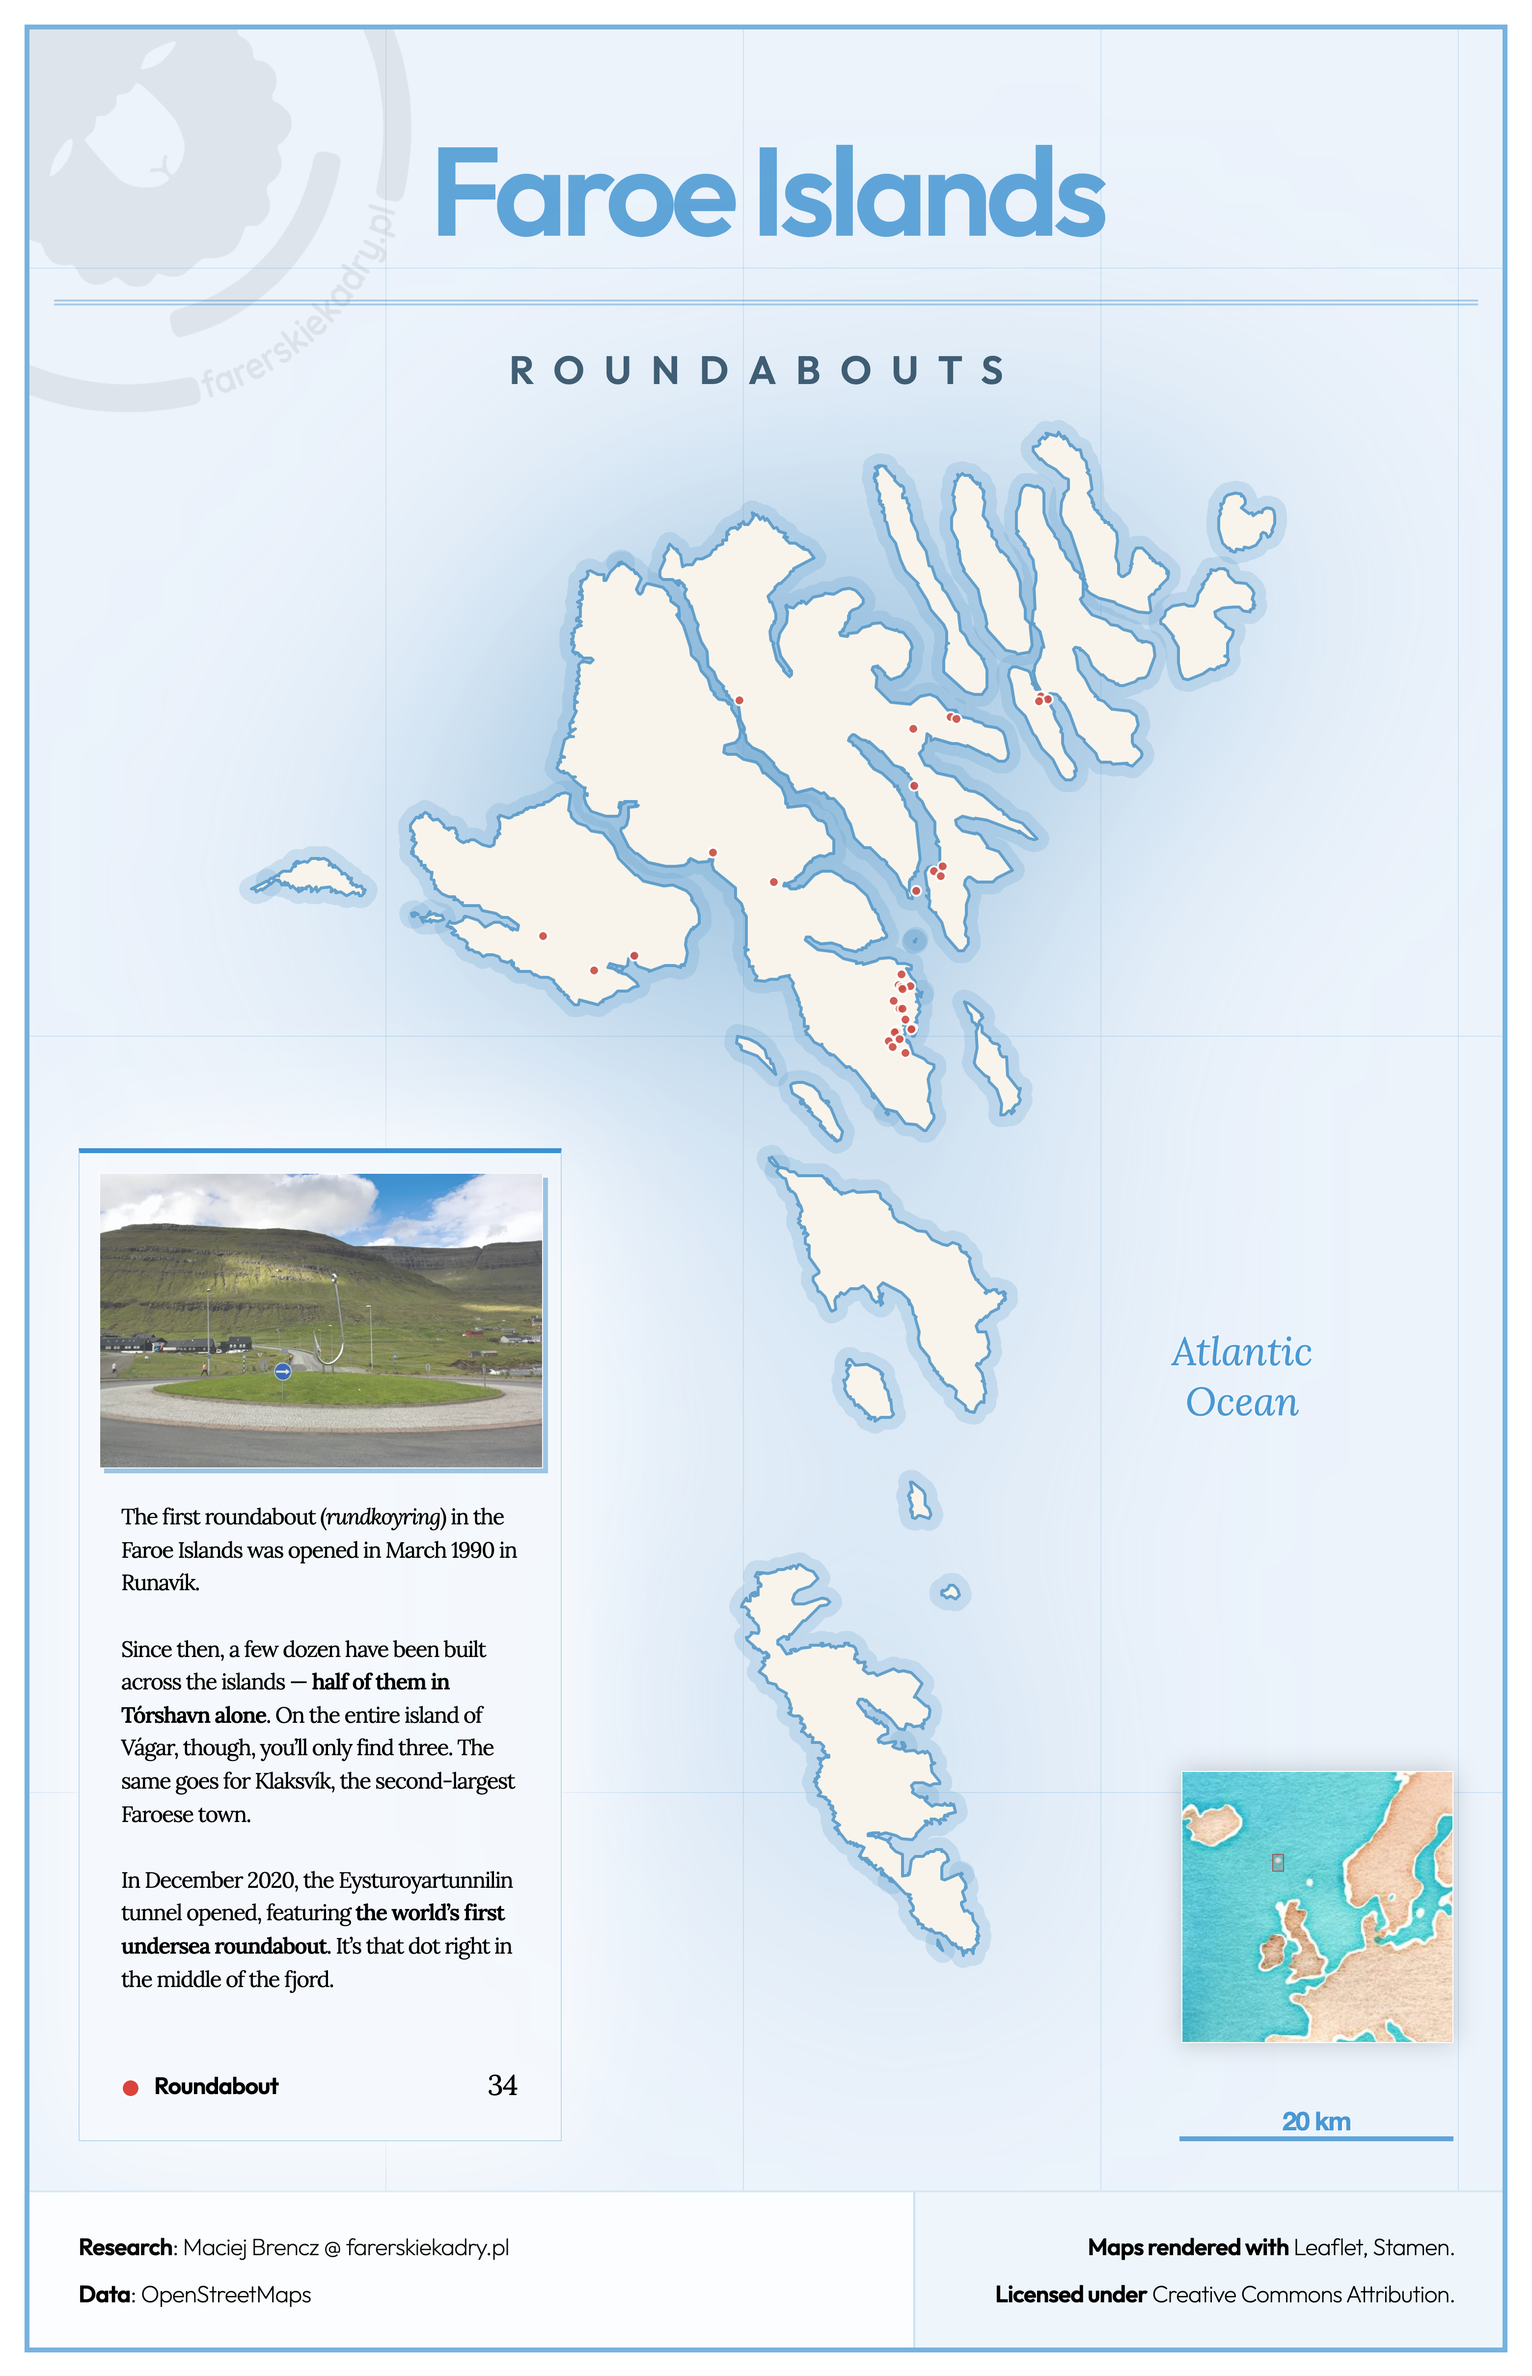
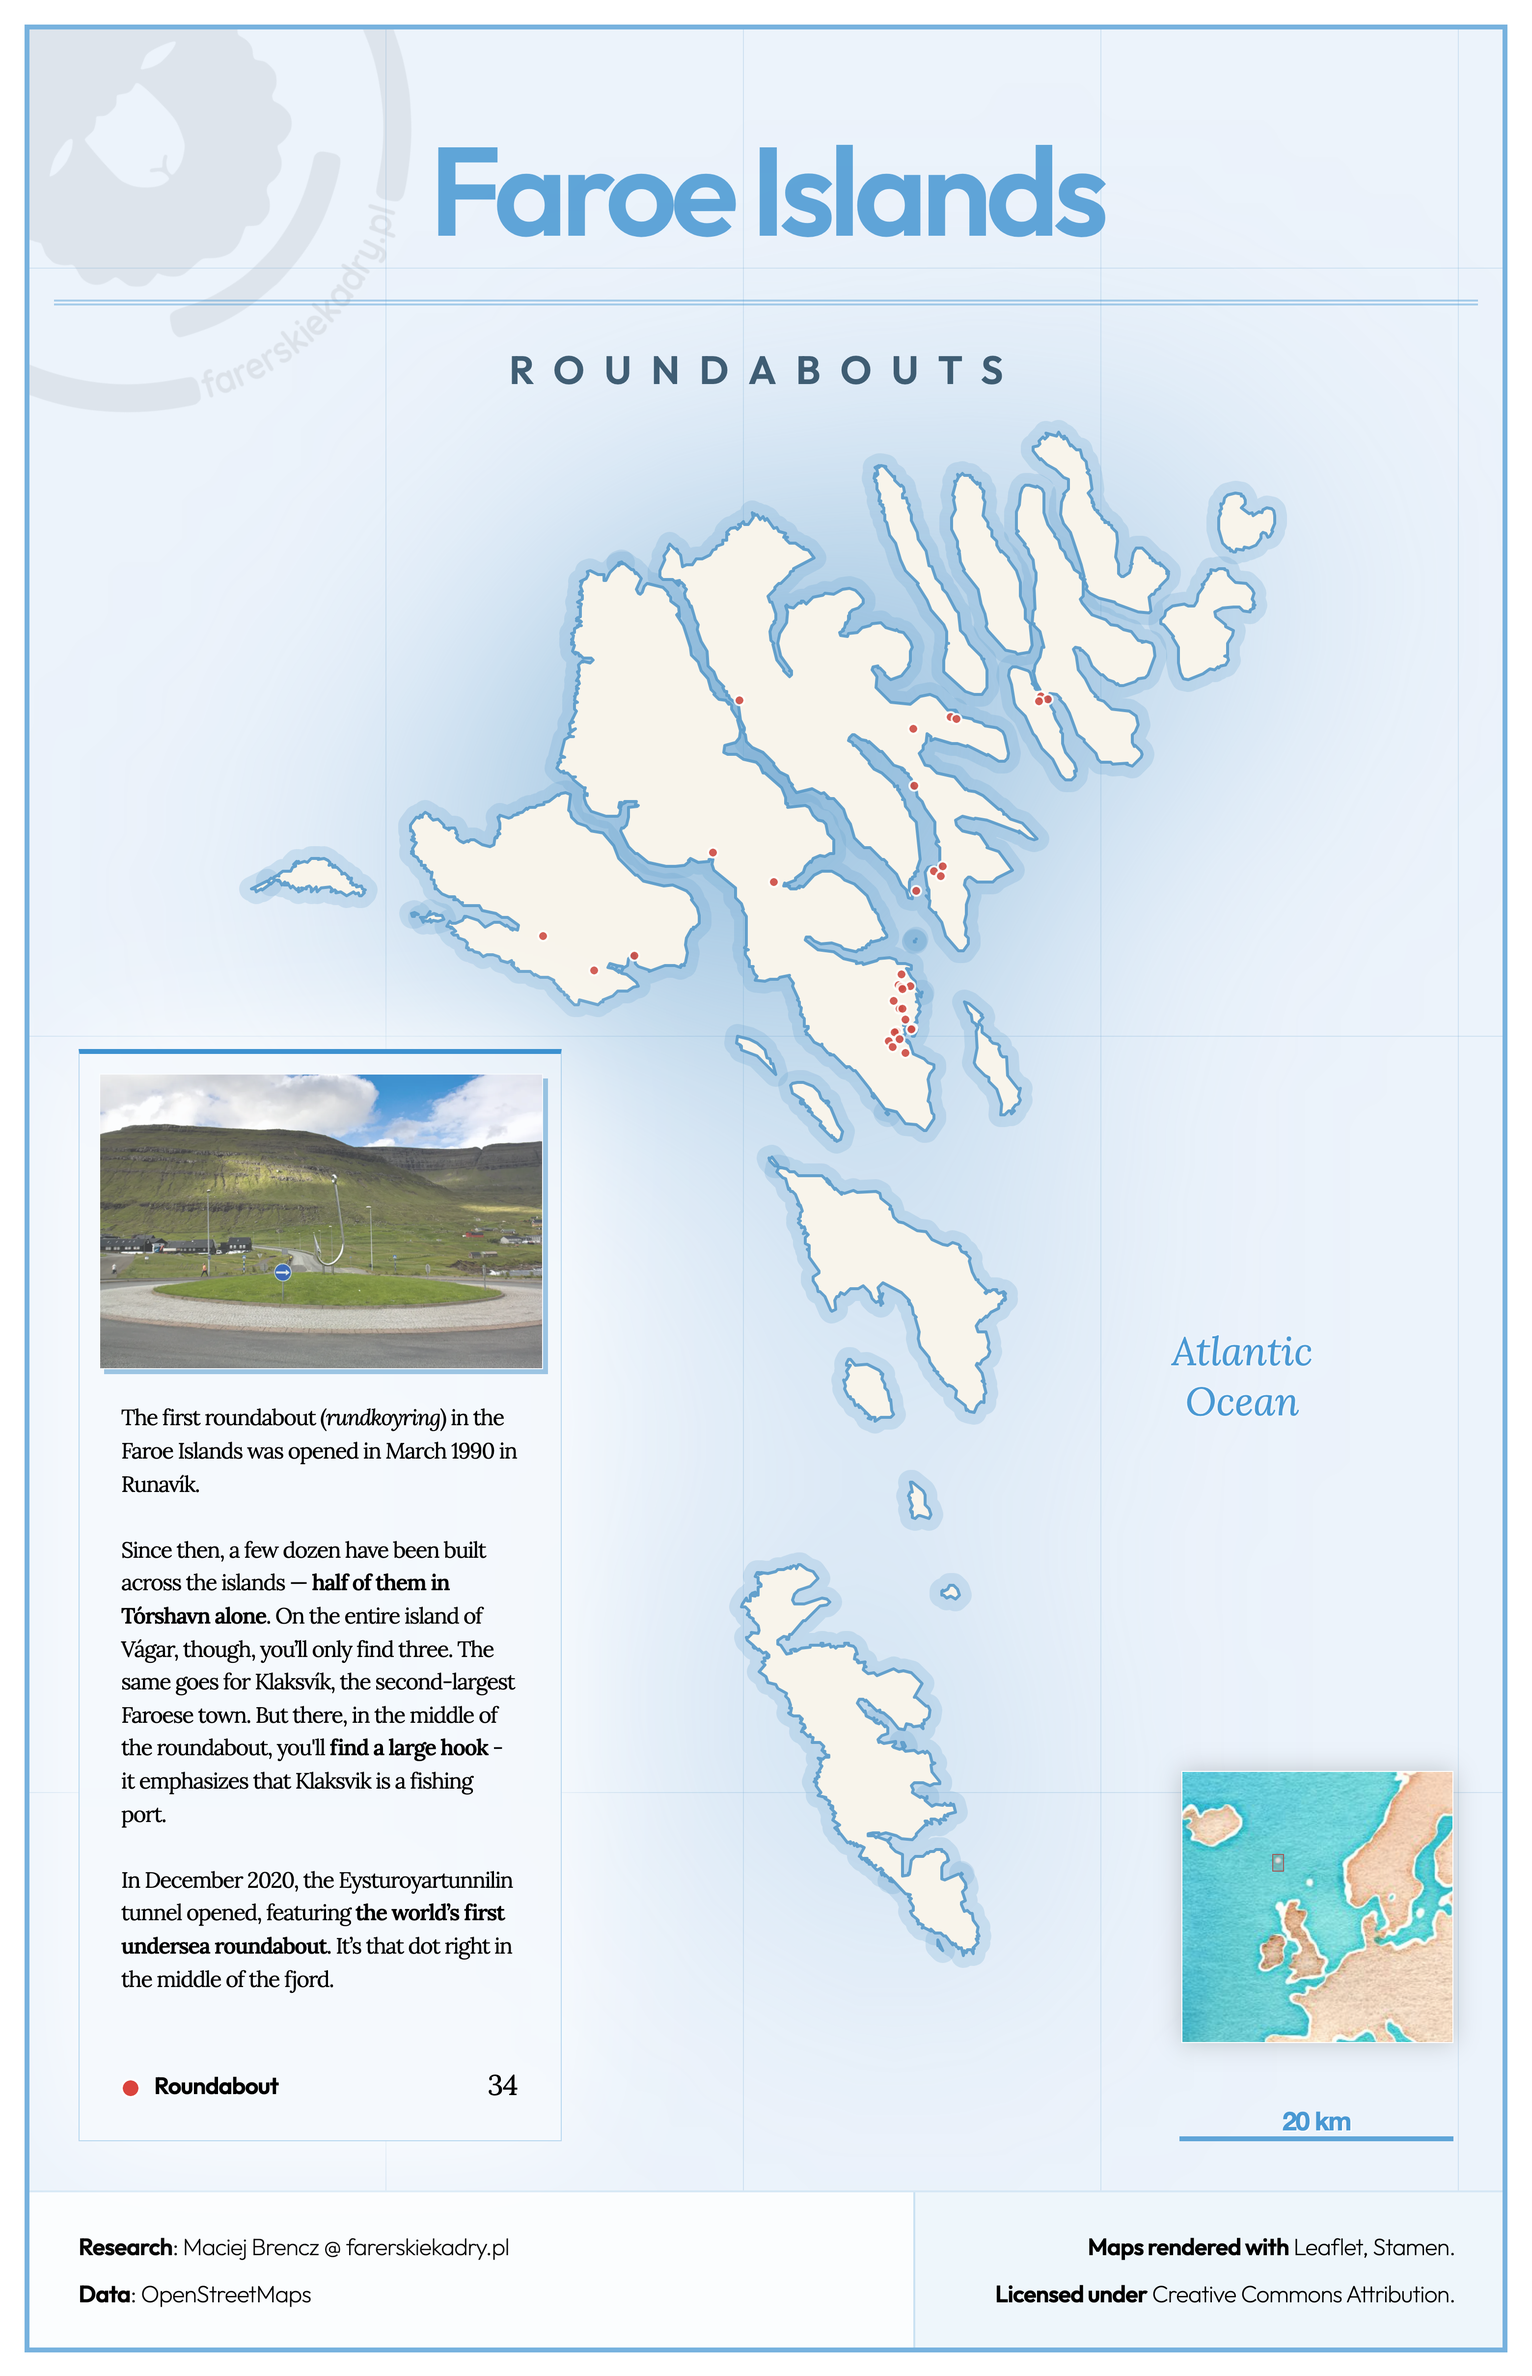
Text updated

Changed region(s): [[0.0622, 0.437, 0.3731, 0.7803]]

diff --git a/faroe.html b/faroe.html
@@ -18,7 +18,7 @@
 
 	<link rel="license" href="https://creativecommons.org/licenses/by/4.0/" />
 
-	<body lang="en" _lang="pl">
+	<body lang="en">
 		<div id="wrapper">
 			<section id="overlay">
 				<h1 lang="en">Faroe Islands</h1>
@@ -32,7 +32,7 @@
 					<p lang="en">
 						The first roundabout (<em>rundkoyring</em>) in the Faroe Islands was opened in March 1990 in Runavík.
 						<br><br>
-						Since then, a few dozen have been built across the islands — <strong>half of them in Tórshavn alone</strong>. On the entire island of Vágar, though, you’ll only find three. The same goes for Klaksvík, the second-largest Faroese town.
+						Since then, a few dozen have been built across the islands — <strong>half of them in Tórshavn alone</strong>. On the entire island of Vágar, though, you’ll only find three. The same goes for Klaksvík, the second-largest Faroese town. But there, in the middle of the roundabout, you'll <strong>find a large hook</strong> - it emphasizes that Klaksvik is a fishing port.
 						<br><br>
 						In December 2020, the Eysturoyartunnilin tunnel opened, featuring <strong>the world’s first undersea roundabout</strong>. It’s that dot right in the middle of the fjord.
 					</p>
@@ -40,7 +40,7 @@
 						Pierwsze farerskie rondo (<em>rundkoyring</em>) zostało otwarte w roku 1990 w Runavíku.
 						<br><br>
 						Na współczesnych mapach drogowych znajdziemy ich już kilkadziesiąt – <strong>połowę z nich w samym Tórshavn</strong>.
-						Cała wyspa Vágar ma ich <strong>tylko trzy</strong>. Podobnie jak drugie co do wielkości miasto na Wyspach - Klaksvík. Ale za to tam na środku ronda znajdziemy wielki hak.
+						Cała wyspa Vágar ma ich <strong>tylko trzy</strong>. Podobnie jak drugie co do wielkości miasto na Wyspach - Klaksvík. Ale za to tam na środku ronda <strong>znajdziemy wielki hak</strong>.
 						<br><br>
 						W grudniu 2020 roku - wraz z otwarciem Eysturoyartunnilin - oddano do użytku <strong>pierwsze na świecie podmorskie rondo</strong>. Tak, to ta kropka pośrodku fiordu.
 					</p>
@@ -353,6 +353,14 @@
 				box-shadow: none;
 			}**/
 		</style>
+
+	<script>
+	// Add #pl anchor to the URL to see the Polish map format
+	if (document.location.hash === '#pl') {
+		console.log('Mapka po polsku ...')
+		document.body.setAttribute('lang', 'pl') 
+	}
+	</script>
 
 	</body>
 </html>
